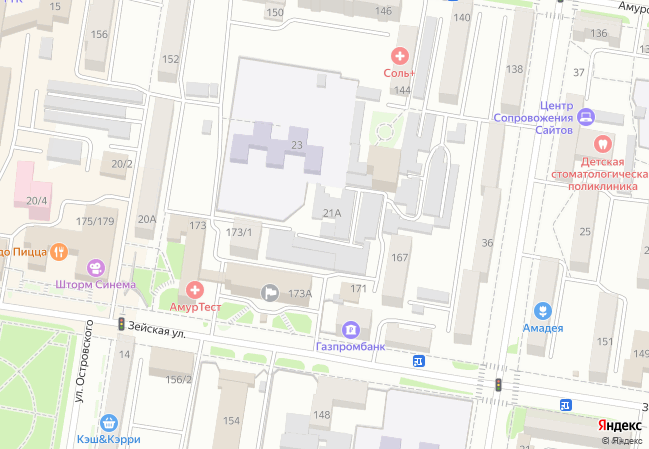
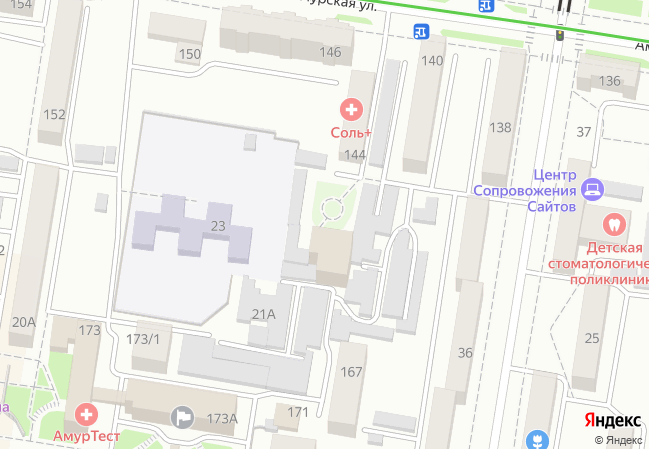
clear trash & analyser trafficlight

diff --git a/algorithms/analyser.py b/algorithms/analyser.py
@@ -1,6 +1,6 @@
 from PIL import Image
 import os
-from time import sleep
+import cv2
 
 
 def color_load():
@@ -12,45 +12,15 @@ def color_load():
     result.save('data/map.png')
 
 
-def trafficlight():
-    im_analyser = Image.open('data/traficlight.png').convert('RGB')
-    im_trafficlight = Image.open('data/traficlight1.png').convert('RGB')
+def trafficlight(im1, im2):
+    needle = cv2.imread(im1)
+    haystack = cv2.imread(im2)
 
-    w1, h1 = im_analyser.size
-    w2, h2 = im_trafficlight.size
-    new = im_analyser.crop((310, 189, 310+w2, 189+h2))
-    new.save('cut.jpg', quality=100)
+    result = cv2.matchTemplate(needle, haystack, cv2.TM_CCOEFF_NORMED)
+    minVal, maxVal, minLoc, maxLoc = cv2.minMaxLoc(result)
+    return True if maxVal > 0.6 else False
 
-    maximus = 0
-    count = 0
-    for i in range(w2):
-        for j in range(h2):
-            if im_analyser.getpixel((i, j)) == im_trafficlight.getpixel((i, j)):
-                count += 1
-    print(f'{round(count / (w2 * h2) * 100, 2)} %')
-    # flag = False
-    # for i in range(310, 311):
-    #     # if flag is True:
-    #     #     break
-    #     for j in range(189, 190):
-    #         count = 0
-    #         for i2 in range(w2):
-    #             for j2 in range(h2):
-    #                 if im_analyser.getpixel((i, j)) == im_trafficlight.getpixel((j2, j2)):
-    #                     count += 1
-    #                 print(i2, j2)
-    #         maximus = max(maximus, count)
-    #         print(f'{round(maximus / (w2 * h2) * 100, 2)} %')
-    #         print(maximus)
-    #         # if maximus == 2069:
-    #         new = im_analyser.crop((i, j, i + w2, j + h2))
-    #         new.save('cut2.jpg', quality=100)
-            # flag = True
-            # break
-
-    print(maximus)
 
 if __name__ == "__main__":
-    # os.chdir(r'C:\Users\olegm\Documents\GitHub\road')
-    os.chdir(r'C:\Users\Олег\PycharmProjects\road')
-    trafficlight()
+    os.chdir(r'C:\Users\olegm\Documents\GitHub\road')
+    # os.chdir(r'C:\Users\Олег\PycharmProjects\road')

diff --git a/forms/UiA.py b/forms/UiA.py
@@ -55,7 +55,7 @@ class UiA(QtWidgets.QDialog, Form):
         self.new_longitude = self.uia.longitudeEdit.text()
         self.new_latitude = self.uia.latitudeEdit.text()
 
-        self.db = sqlite3.connect('load.db')
+        self.db = sqlite3.connect('db/load.db')
         self.sql = self.db.cursor()
 
         self.uia.comboBox.currentIndexChanged.connect(self.view)

diff --git a/algorithms/get_element.py b/algorithms/get_element.py
@@ -5,7 +5,7 @@ from API import yandex
 import os
 
 def main():
-    yandex.get_map(124.711227,56.657561,  "map", 4, 0.000001, 0.000001, 70, 300)
+    yandex.get_map(127.536263, 50.268368,  "map", 4, 0.000001, 0.000001)
 
 
 if __name__ == "__main__":
